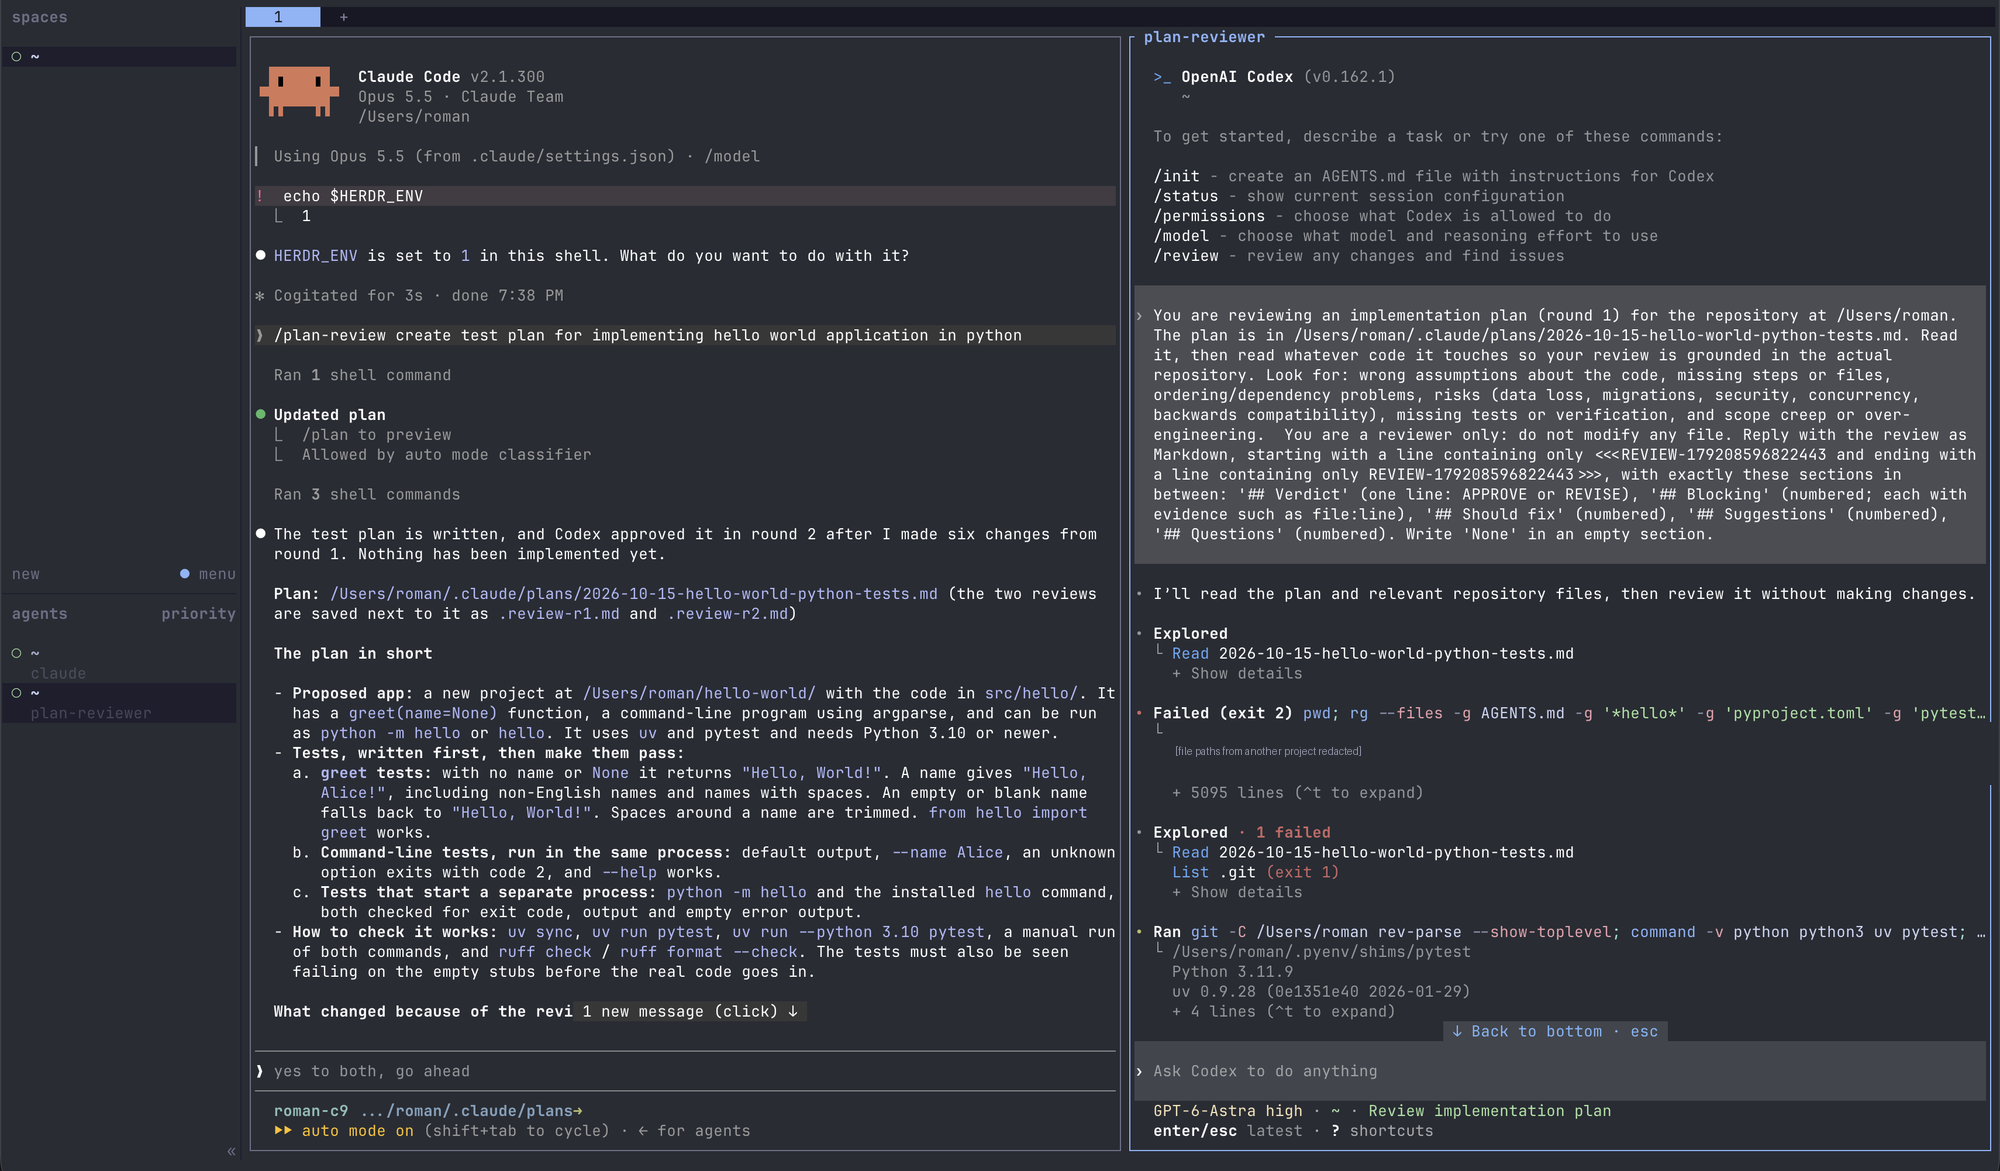
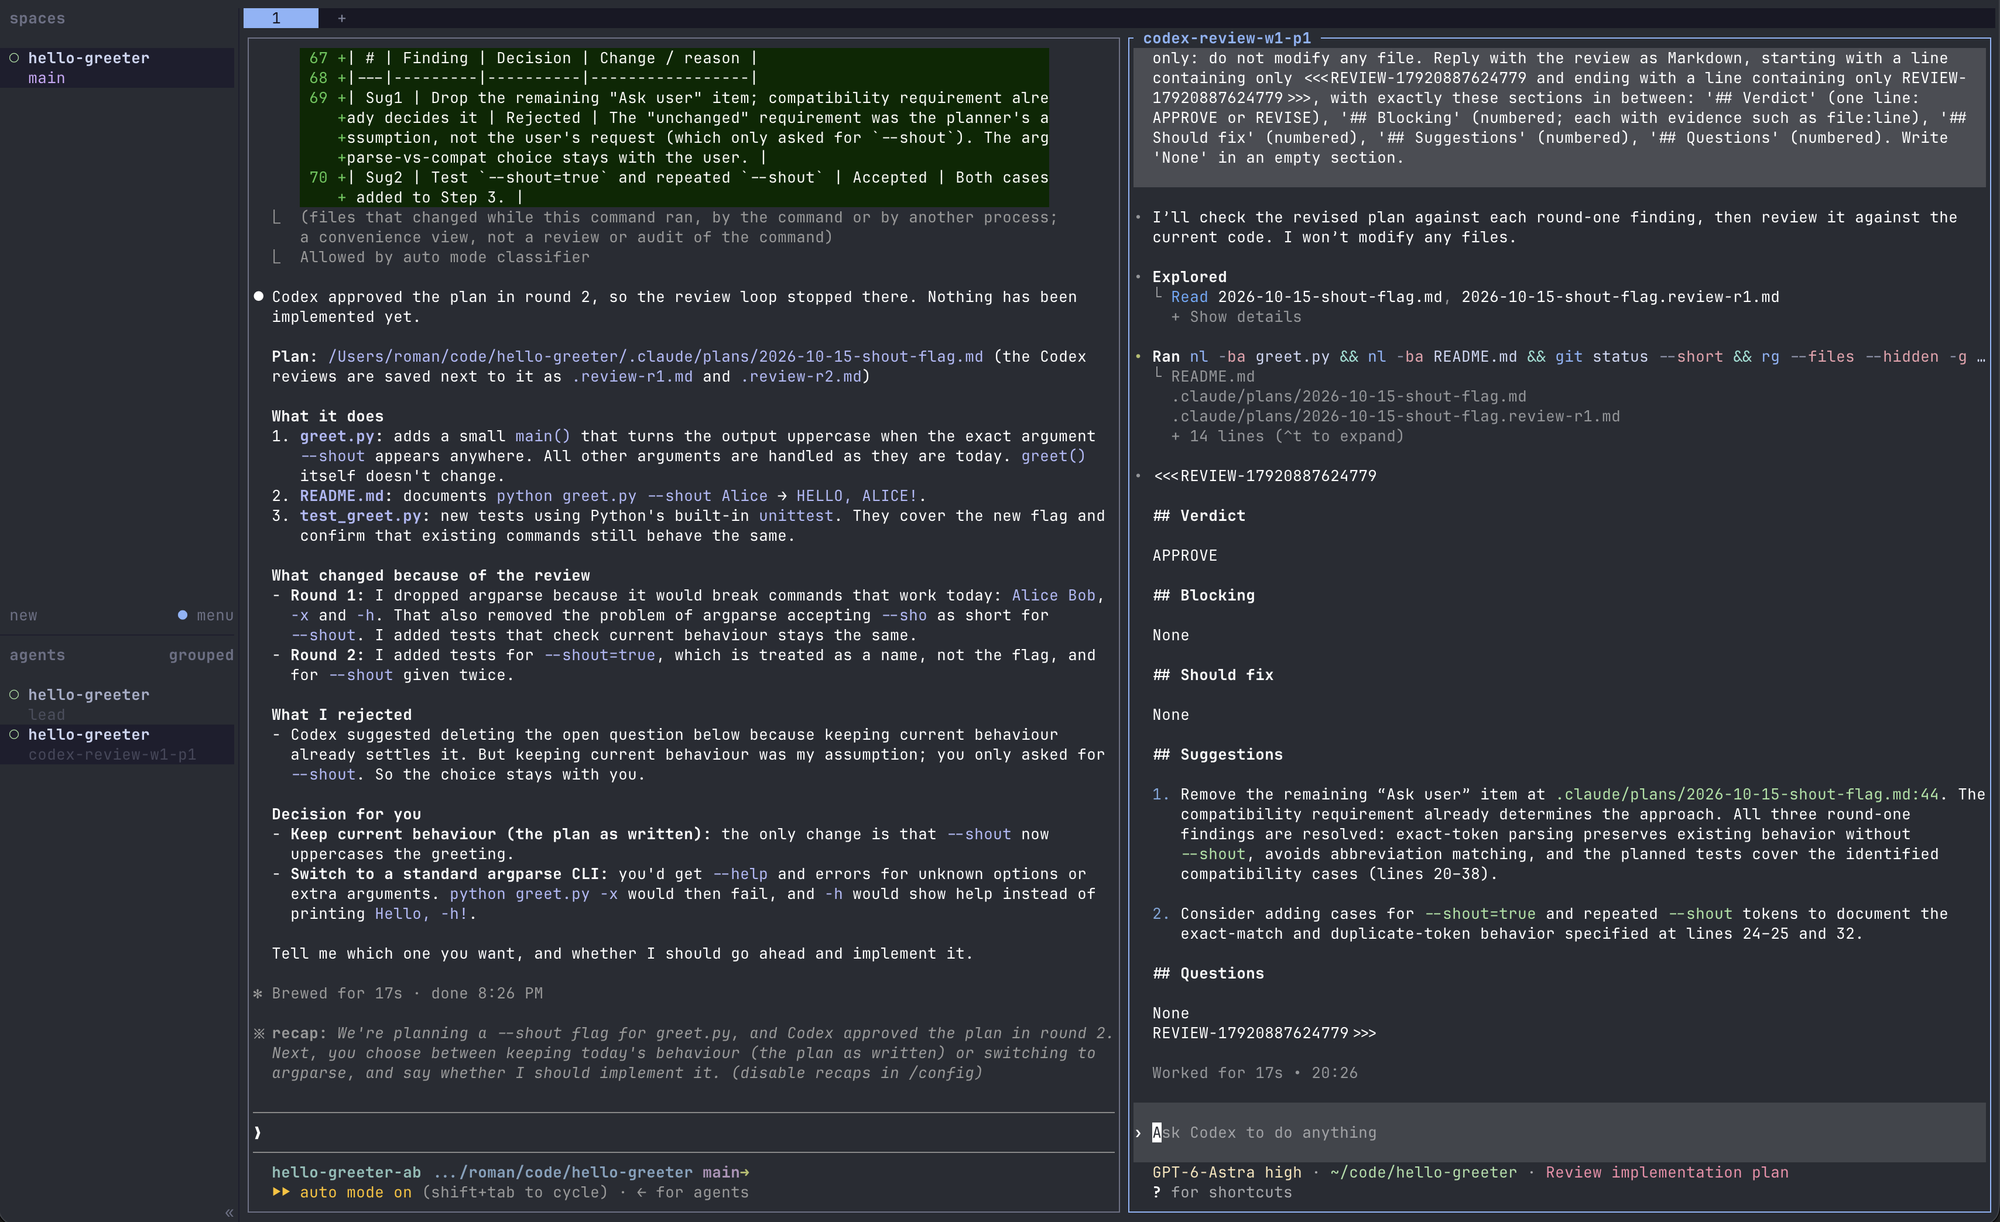
README: new end-to-end screenshot

diff --git a/README.md b/README.md
@@ -14,11 +14,11 @@ you: "prepare a plan for X"
      └─ up to 3 rounds (same Codex session) → final plan → waits for your go-ahead
 ```
 
-![Claude Code (left) wrote a plan; Codex (right) reviews it read-only in a herdr pane](docs/screenshot.png)
+![Claude Code (left) summarises the reviewed plan; Codex (right) approves it in its own herdr pane](docs/screenshot.png)
 
-*Left: Claude Code wrote the plan, and reports that Codex approved it in round 2 after six changes.
-Right: Codex reviewing the plan in its own herdr pane. Recorded before the skill was renamed, so it
-shows the old names `/plan-review` and `plan-reviewer` (now `/codex-review` and `codex-review-<pane>`).*
+*Asked for a `--shout` flag, Claude drafted a plan. In round 1 Codex found that switching to argparse
+would break existing commands, so Claude revised the plan and logged each decision. Codex (right)
+approved round 2. Claude rejected one suggestion with a reason and left a real choice to the user.*
 
 Two different models catch different mistakes: wrong assumptions about the code, missing steps,
 risky migrations, missing tests. You only see the plan after they agree, or after Claude has written
